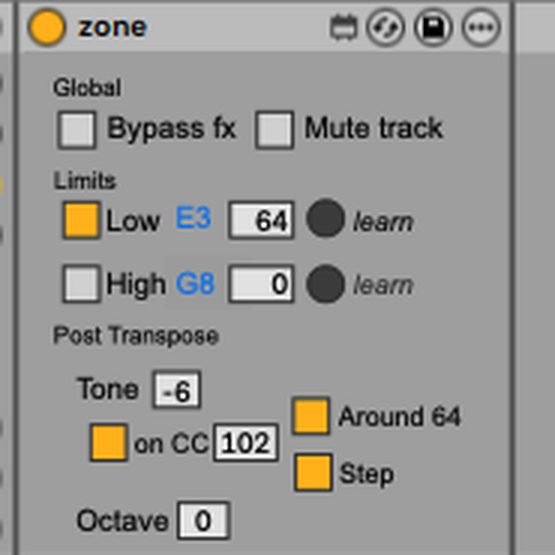
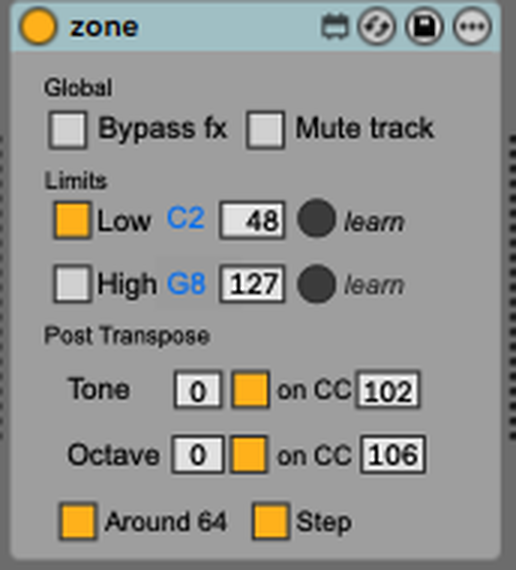
docs(zone): refresh device shot (Oct-via-CC) + explain the CC/mode rationale
- zone-device.png recaptured: now shows Tone on CC + Octave on CC + shared modes.
- README: added the rationale for a CC-per-target with mapping modes — Octave (9
  values) and Tone (12) are far coarser than a CC's 127 steps, so a straight sweep
  wastes range and lands between values; the "around 64" window puts 0 at value 64
  with one CC value per step (64 + n = n), easy to author and precise.

diff --git a/README.md b/README.md
@@ -81,6 +81,13 @@ number and enable; the mapping **mode is shared**.
 
 Default **64 + Step** = the window: value **68 → +4**, 64 → 0, 58 → −6, 69 → +5, outside saturates.
 
+**Why a CC per target, with modes?** Octave (9 values) and Tone (12 values) are far coarser than a
+CC's 127 steps — a straight linear sweep wastes most of the range and lands *between* values. So each
+shift gets its **own CC**, plus a shared choice of **how** the value maps onto its few slots — in
+particular the window **around 64**, where `value 64 = 0` and every step is one increment
+(`64 + n = n`): trivial to author by hand and precise, instead of hunting for the right point on a
+127-step fader.
+
 > **Drive it from a Stream Deck.** The [Trevliga Spel Stream Deck MIDI plugin](https://trevligaspel.se/streamdeck/midi/index.php)
 > is an absolute gem — it fires MIDI (CC, **Program Change**, Note…) straight from physical Stream Deck keys.
 > Assign a key to send `CC 102` at a fixed value and you get one-press Tone recalls, or drive any of Zone's
